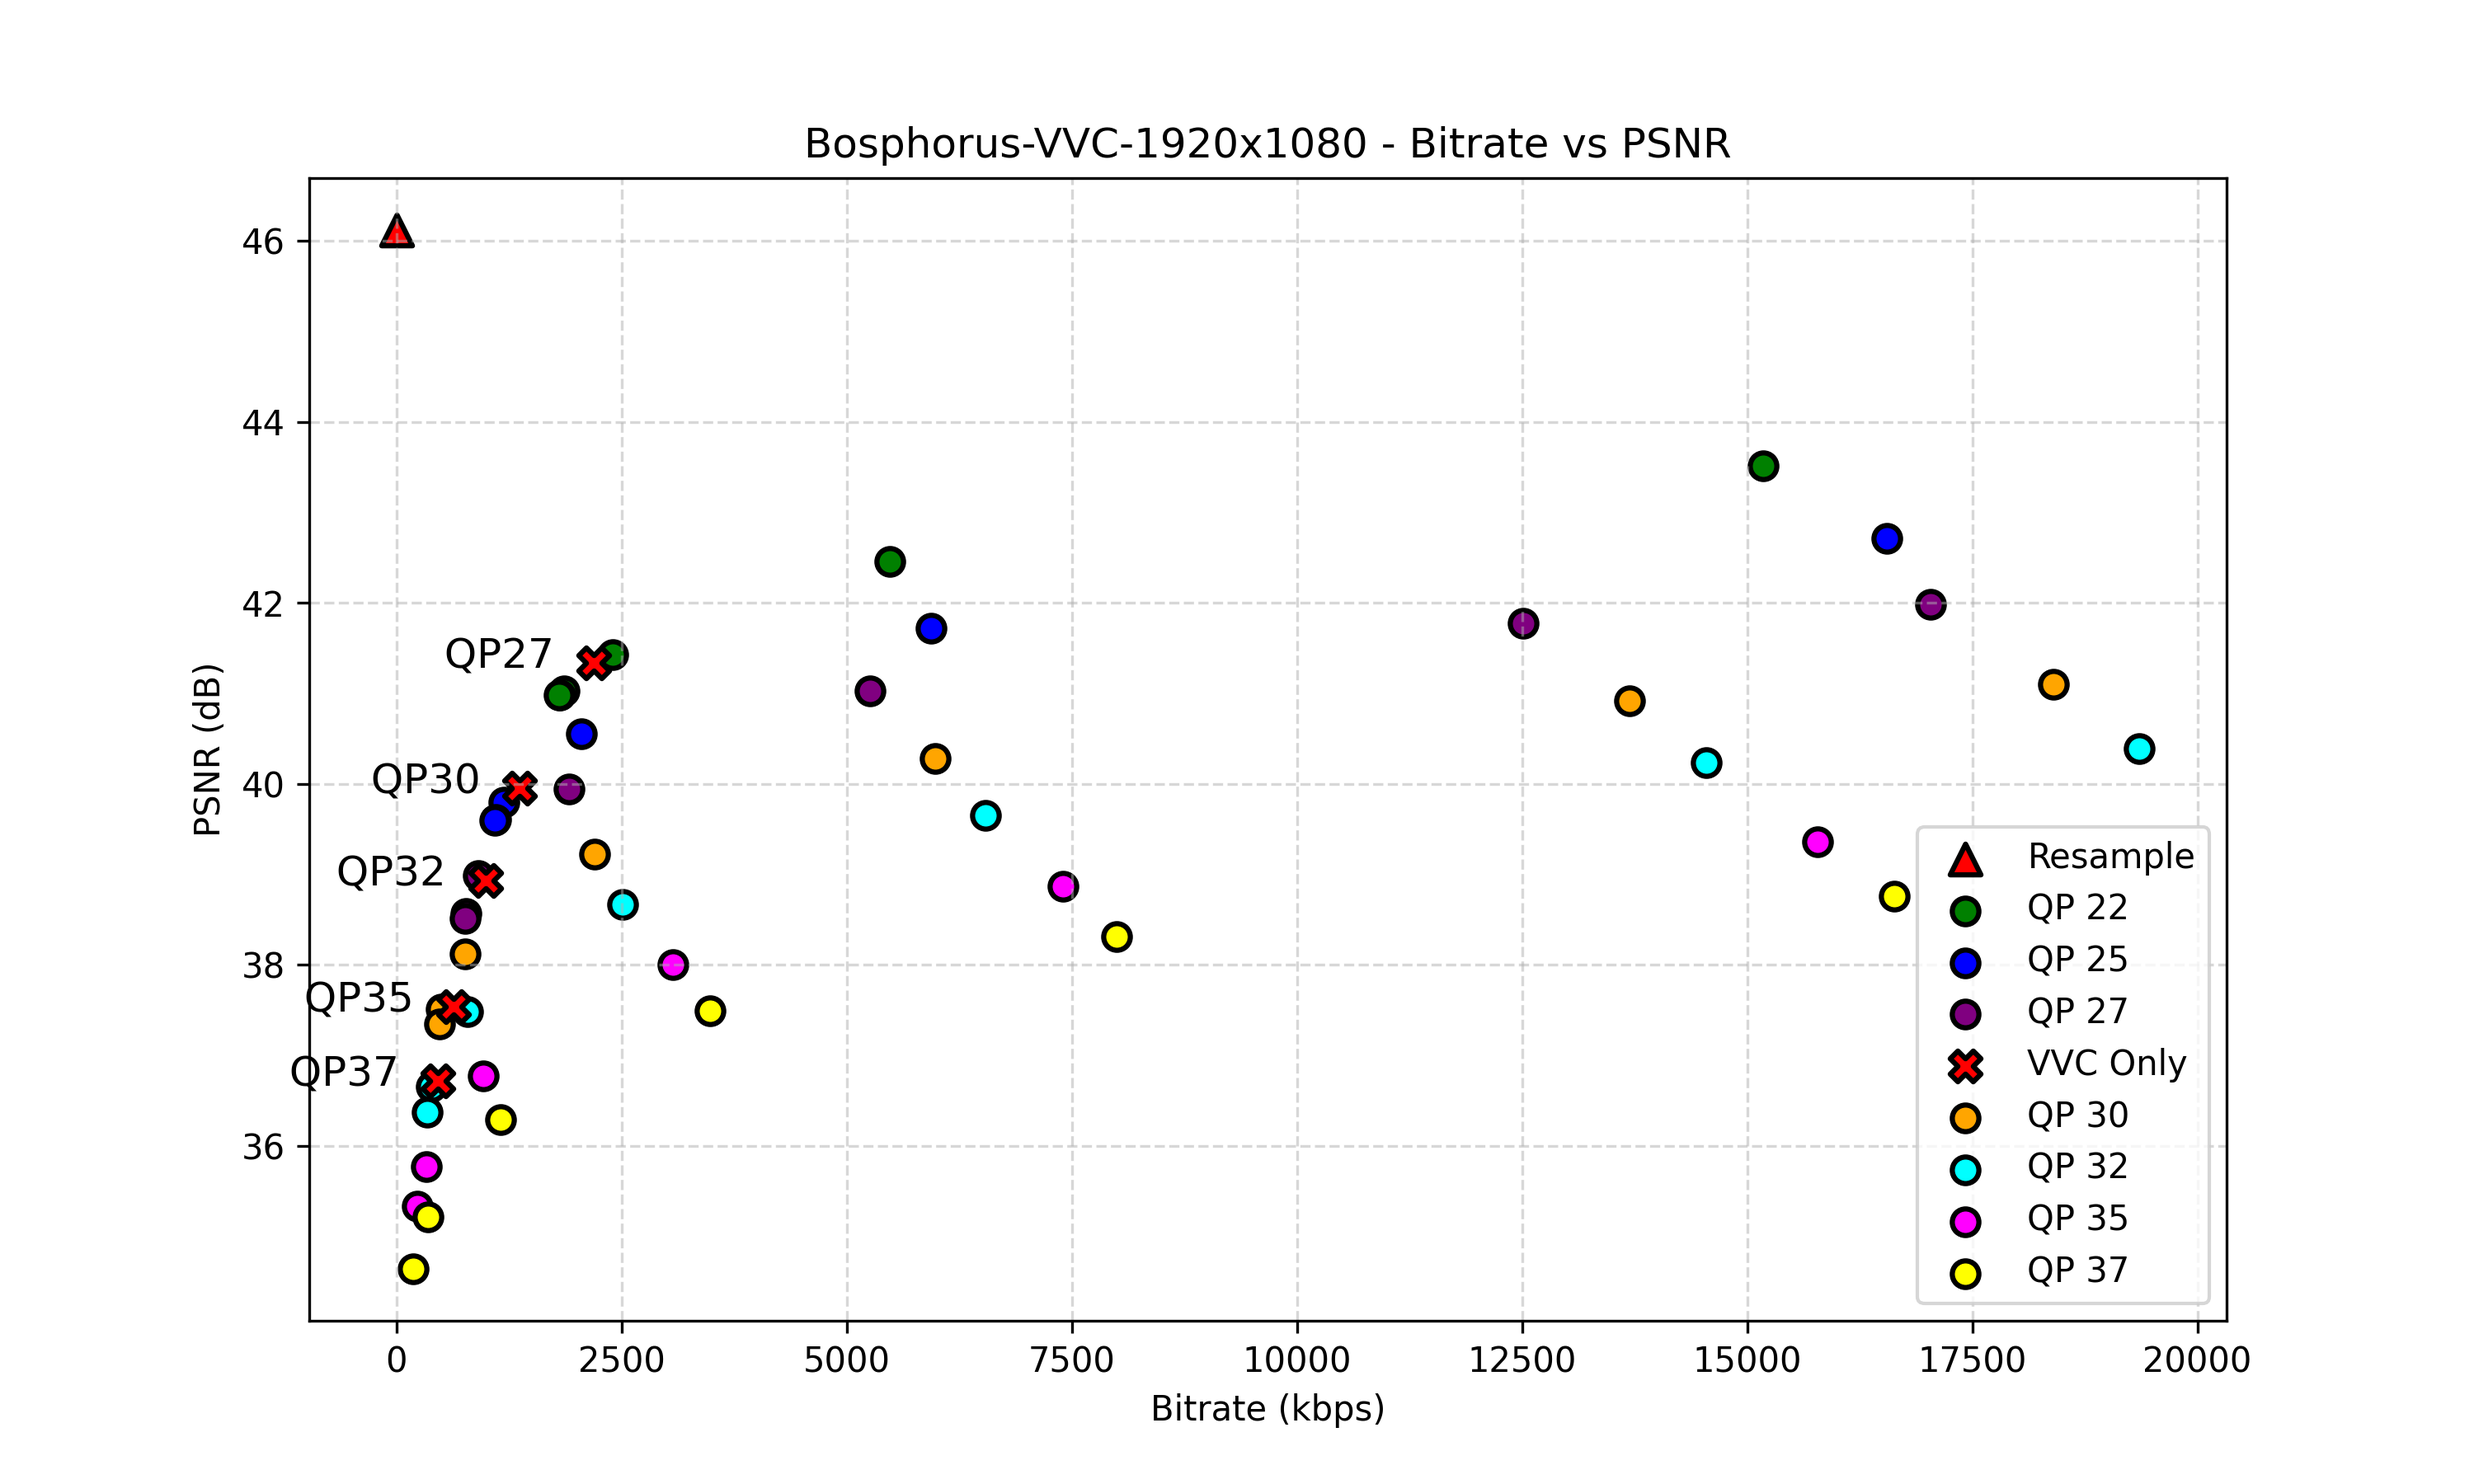
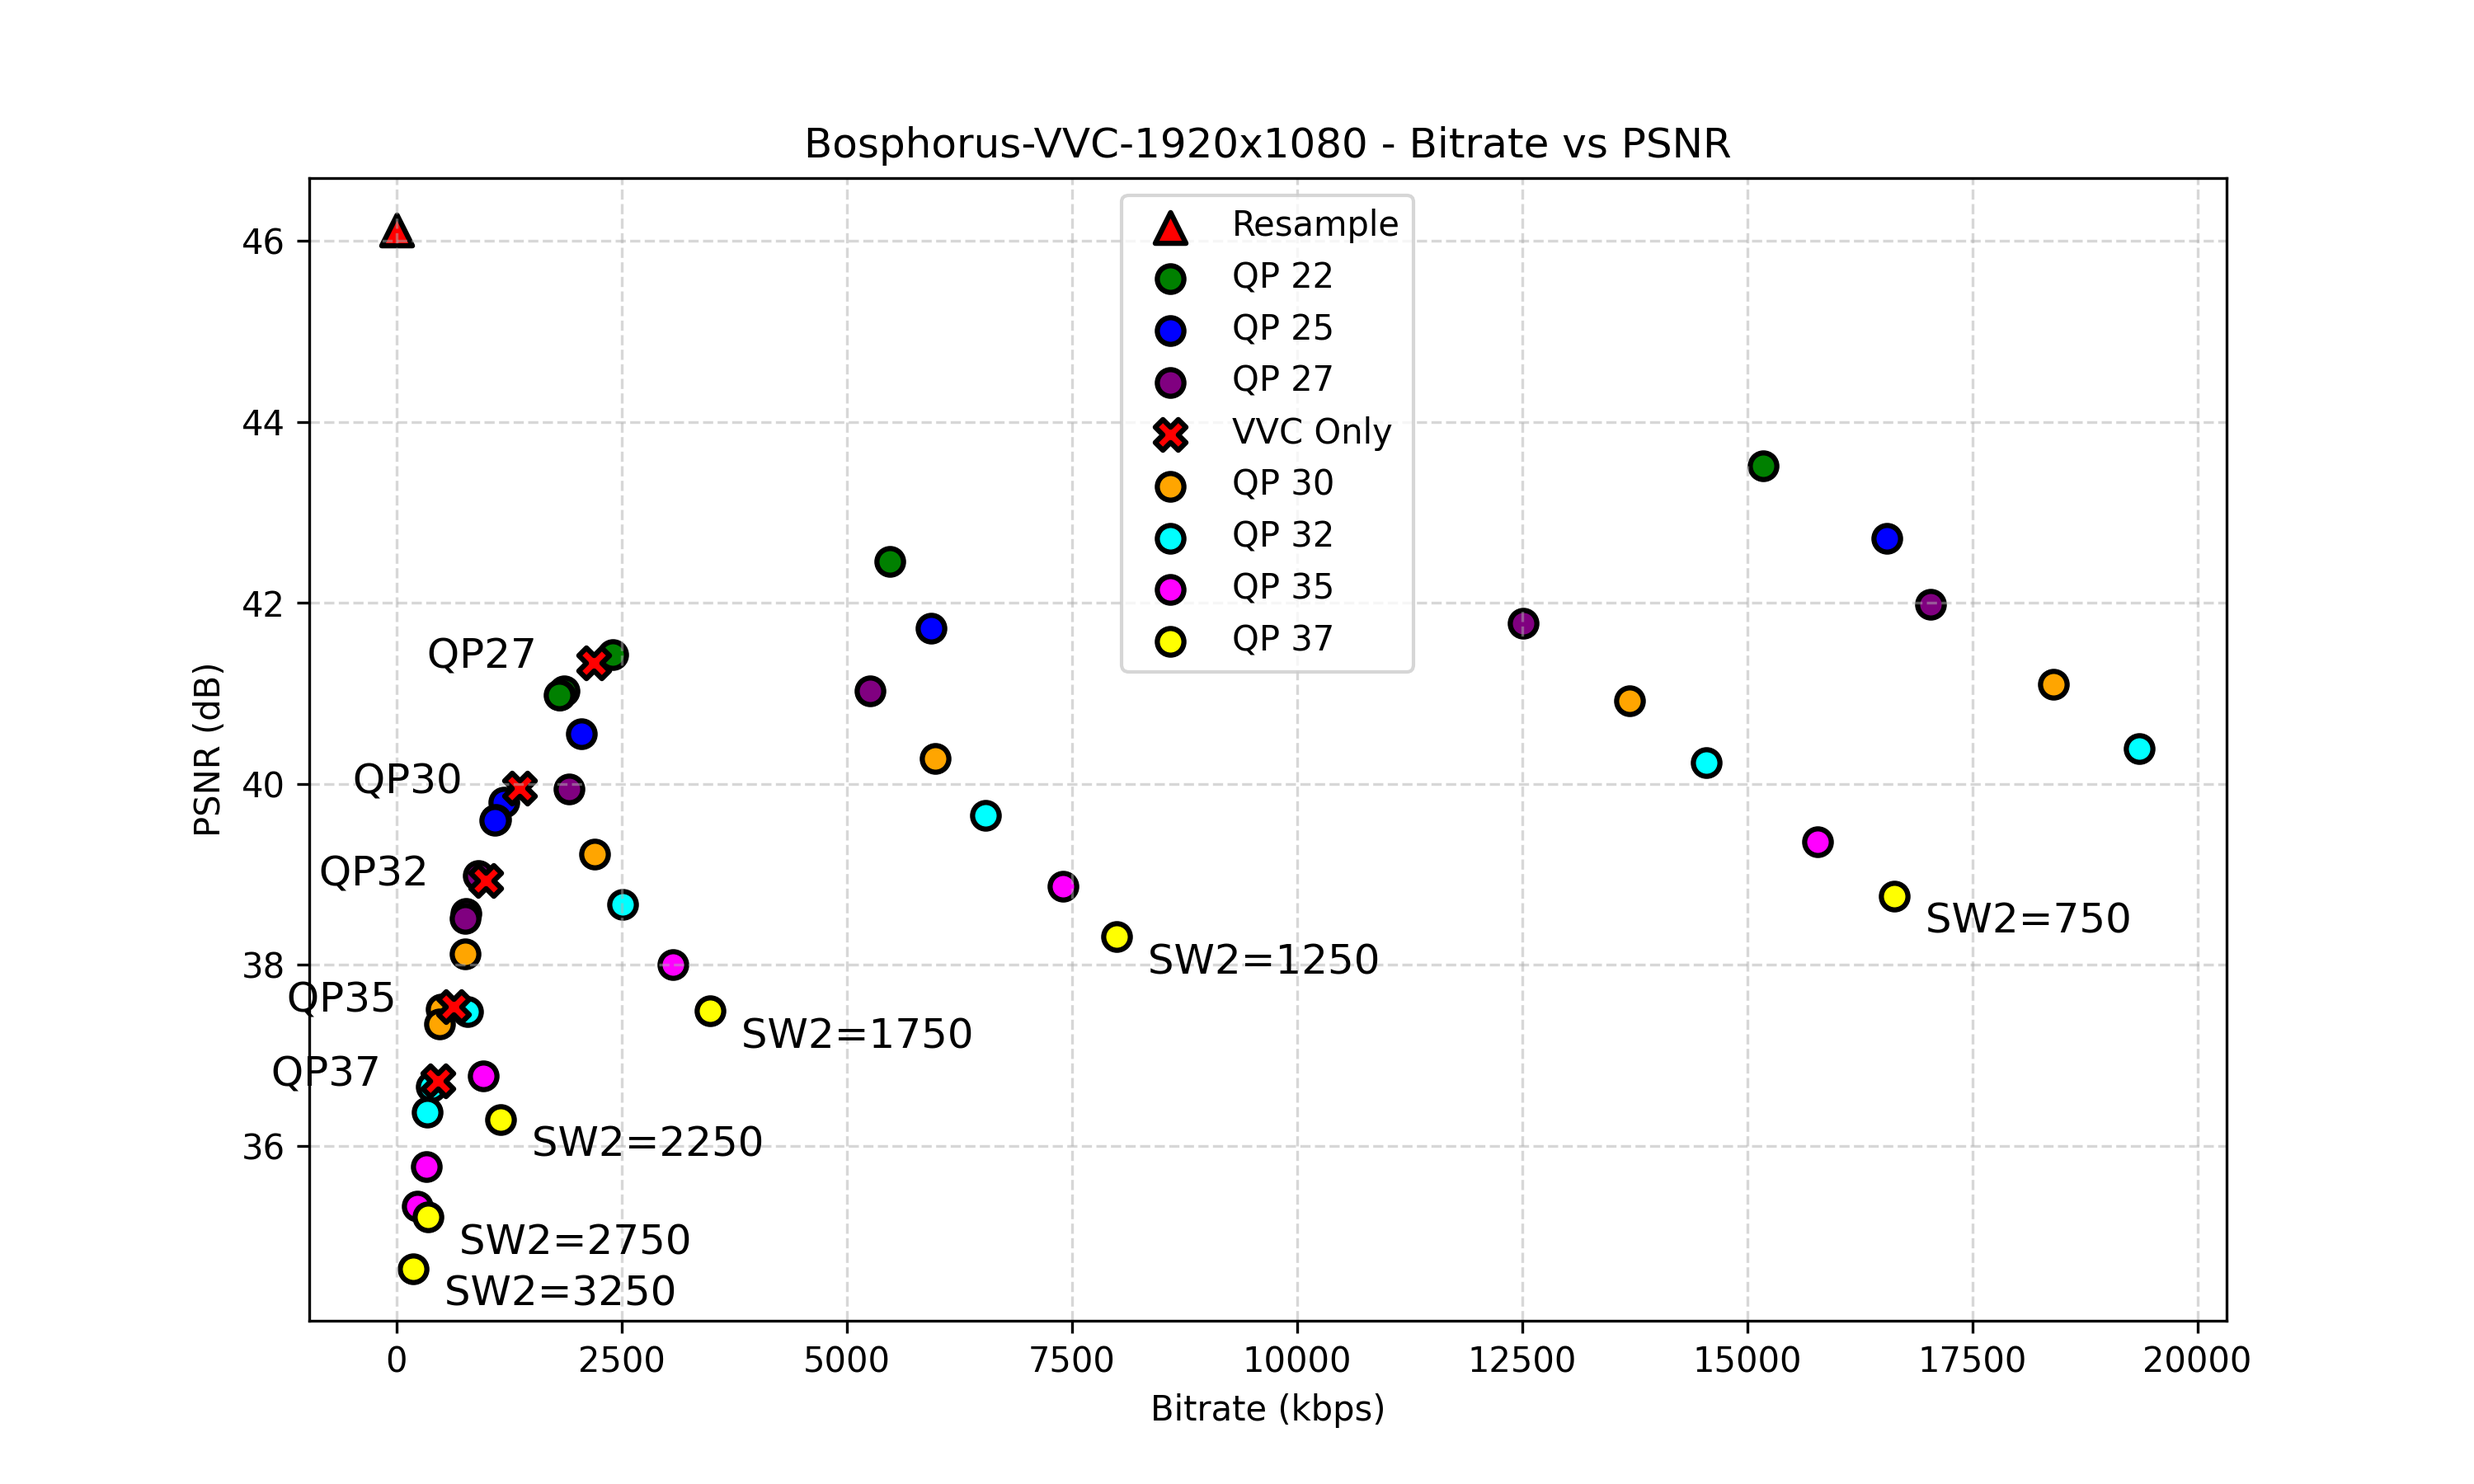
Updated via sync.sh

diff --git a/PSNR/psnr.py b/PSNR/psnr.py
@@ -92,16 +92,24 @@ for csv_path in csv_files:
             xoffset = -1000
             yoffset = -0.1
 
-            if row["qp"] == 22 and row["sw2"] == 250:
-                xoffset = -18000
-                yoffset = -0.1
+            if row["sw2"] != 264 and row["sw2"] != 265:
+                if row["qp"] == 37:
+                    text_label += f" SW2={row['sw2']}"
+                    xoffset = 200
+                    yoffset = -0.5
+                pass
 
             if is_reference:
-                xoffset = -2700
-                yoffset = -0.35
+                xoffset = -1500
+                yoffset = 0.25
             elif is_resample:
                 xoffset = -100
                 yoffset = -100
+            
+            if row["sw2"] == 1250:
+                xoffset = -2000
+                yoffset = -0.8
+
 
             plt.text(
                 row["bitrate_kbps"] + xoffset,
